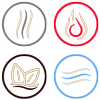
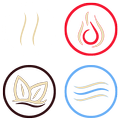
elements-57

diff --git a/wp-content/themes/mobile/style.css b/wp-content/themes/mobile/style.css
@@ -222,7 +222,7 @@ a.btn-link.btn_new_img
 }
 .protocols_item_img, .mode-item_img
 {
-  font-size: 60px;
+  font-size: 80px;
   margin: 30px 0 10px;
 }
 .current_protocol_content 
